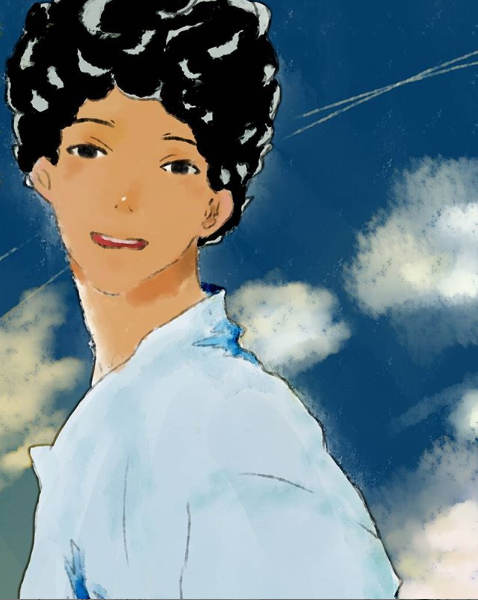
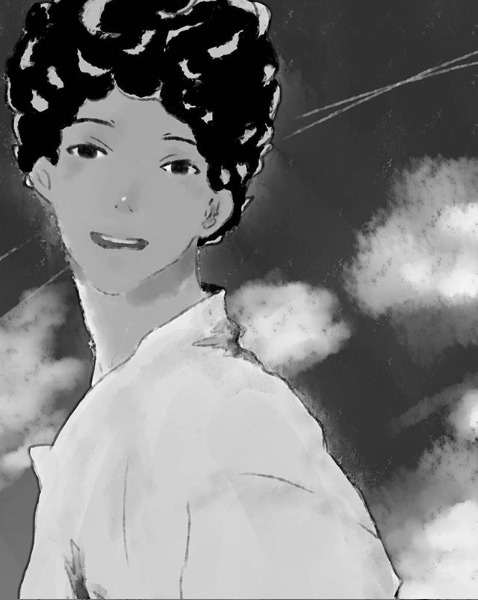
implement grey scaling

diff --git a/app.py b/app.py
@@ -1,5 +1,7 @@
 import os
 from flask import Flask, render_template, url_for, request, redirect, send_from_directory, abort, send_file, safe_join
+from PIL import Image
+import numpy as np
 from werkzeug.utils import secure_filename
 
 app = Flask(__name__)
@@ -61,8 +63,21 @@ def handleFileUpload():
                 currentImageName = photo.filename
                 #the place to store image
                 photo.save(os.path.join('./static/client/img', filename))
+                # undone image path
+                dataPath = 'D:\\new main folider\\Github clones\\animewebapp\\static\\client\\img'
+                # save image path
+                savePath = 'D:\\new main folider\\Github clones\\animewebapp\\static\\client\\img'
+                resize(dataPath,savePath)
     return redirect(url_for('home'))
 
+def resize(imgPath,savePath):
+ files = os.listdir(imgPath)
+ files.sort()
+ for file in files:
+        new_png = Image.open(imgPath+'/'+file) #openImage
+        #new_png = new_png.resize((1000, 1000),Image.ANTIALIAS) #ResizeImage
+        new_png = new_png.convert('L') # convert image to black and white
+        new_png.save(savePath+'/'+file) #saveImage
 
 if __name__ == '__main__':
     app.run(debug=True)
